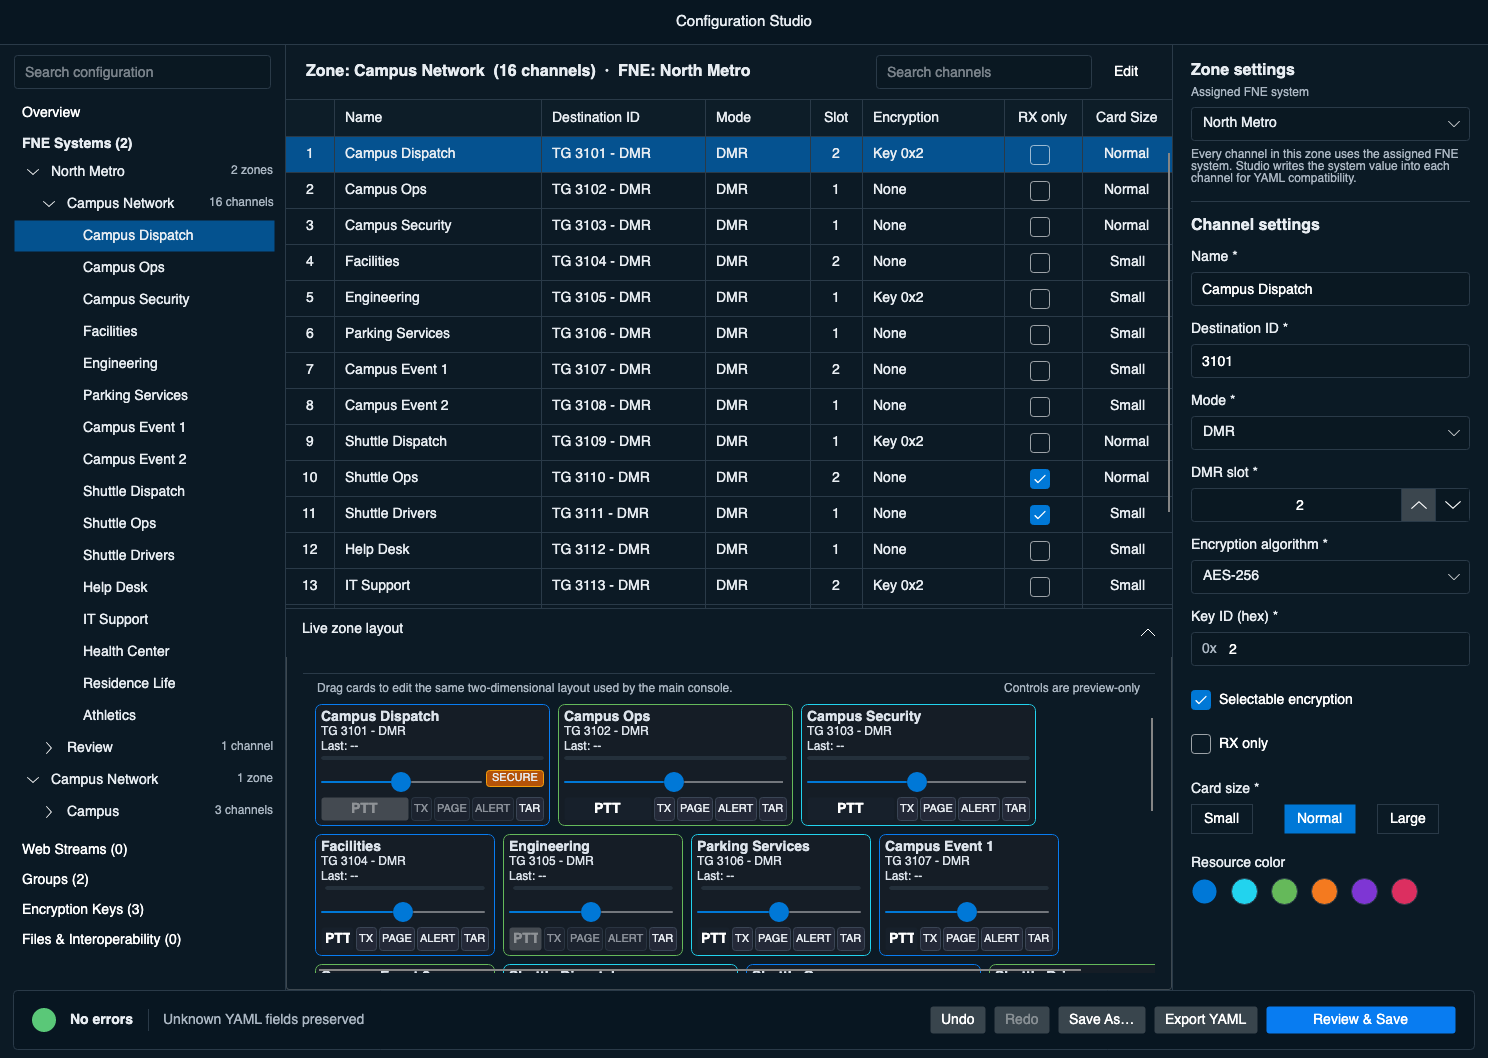
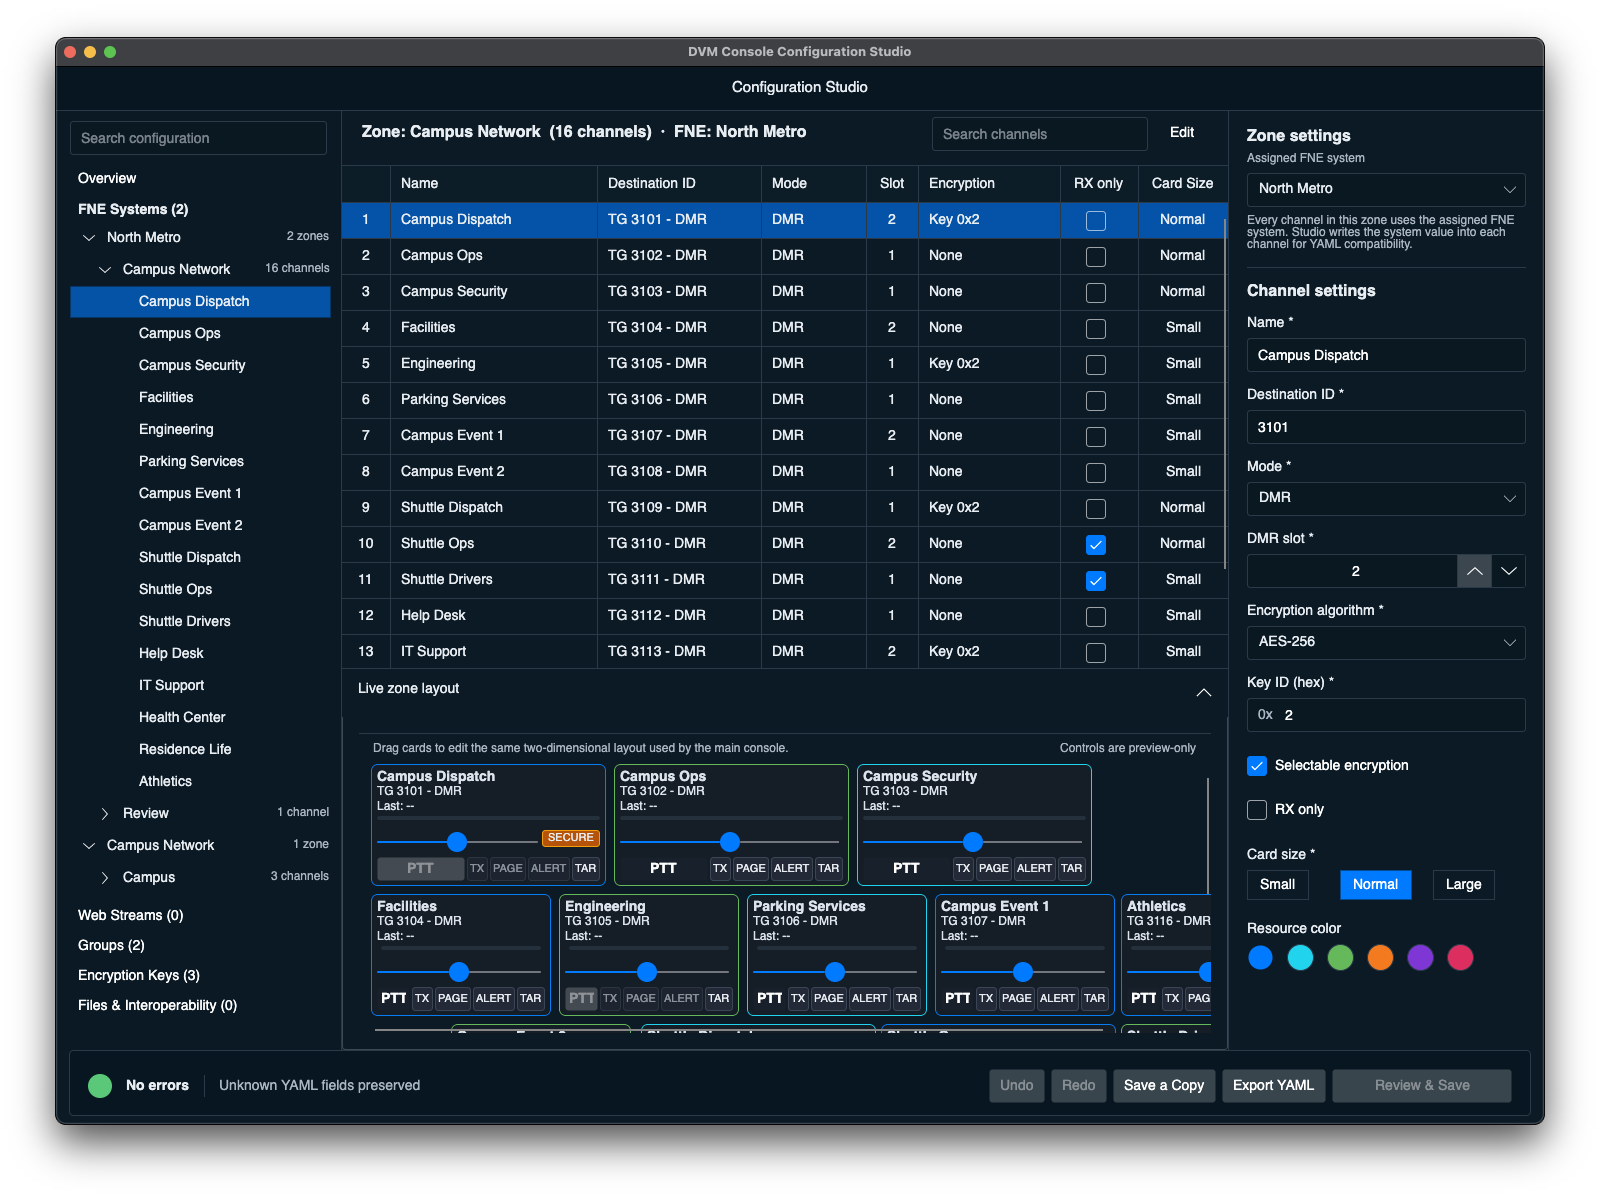
feat: expand bundled demo codeplug [skip ci]

diff --git a/src/DvmConsole.Desktop/MainWindowViewModel.Demo.cs b/src/DvmConsole.Desktop/MainWindowViewModel.Demo.cs
@@ -45,50 +45,50 @@ public sealed partial class MainWindowViewModel
 
         SystemViewModel? northMetro = FindDemoSystem("North Metro");
         SystemViewModel? campus = FindDemoSystem("Campus Network");
-        ChannelViewModel? northDispatch = FindDemoChannel("North Dispatch");
-        ChannelViewModel? transit = FindDemoChannel("Transit Operations");
-        ChannelViewModel? publicWorks = FindDemoChannel("Public Works");
+        ChannelViewModel? campusDispatch = FindDemoChannel("Campus Dispatch");
+        ChannelViewModel? campusOps = FindDemoChannel("Campus Ops");
+        ChannelViewModel? campusSecurity = FindDemoChannel("Campus Security");
         ChannelViewModel? campusServices = FindDemoChannel("Campus Services");
         ChannelViewModel? events = FindDemoChannel("Events");
         ChannelViewModel? facilities = FindDemoChannel("Facilities");
 
         if (northMetro is not null)
             SelectedSystem = northMetro;
-        if (transit is not null)
-            SelectChannel(transit);
+        if (campusOps is not null)
+            SelectChannel(campusOps);
 
-        northDispatch?.SetTransmitSelected(true);
-        transit?.SetTransmitSelected(true);
-        publicWorks?.SetPageSelected(true);
-        transit?.SetAlertSelected(true);
+        campusDispatch?.SetTransmitSelected(true);
+        campusOps?.SetTransmitSelected(true);
+        campusSecurity?.SetPageSelected(true);
+        campusOps?.SetAlertSelected(true);
         events?.SetPageSelected(true);
         facilities?.SetAlertSelected(true);
-        transit?.RestoreRecordingEnabled(true);
+        campusOps?.RestoreRecordingEnabled(true);
         campusServices?.RestoreRecordingEnabled(true);
-        publicWorks?.RestoreRecordingEnabled(true);
+        campusSecurity?.RestoreRecordingEnabled(true);
 
-        if (northDispatch is not null)
+        if (campusDispatch is not null)
         {
             const uint transmitStreamId = 0x4E454F01;
             ObservePttActivationSource(PttActivationSource.LocalChannelControl);
-            northDispatch.SetTransmitEnabled(true, transmitStreamId);
+            campusDispatch.SetTransmitEnabled(true, transmitStreamId);
             callHistory.AddConsoleTransmission(
                 DemoTimelineOrigin.AddMinutes(9),
-                northDispatch.Definition.SystemName,
-                northDispatch.Name,
+                campusDispatch.Definition.SystemName,
+                campusDispatch.Name,
                 990001,
-                northDispatch.Definition.DestinationId,
-                ProtocolFor(northDispatch),
+                campusDispatch.Definition.DestinationId,
+                ProtocolFor(campusDispatch),
                 transmitStreamId,
                 "NEO Demo Console",
-                channelId: new ChannelId(northDispatch.SessionId));
+                channelId: new ChannelId(campusDispatch.SessionId));
         }
 
-        if (northMetro is not null && transit is not null)
+        if (northMetro is not null && campusOps is not null)
         {
-            PresentDemoReceive(northMetro, transit, 42017, 0x4E454F11, 72);
+            PresentDemoReceive(northMetro, campusOps, 42017, 0x4E454F11, 72);
             AddActiveDemoCall(
-                transit,
+                campusOps,
                 42017,
                 0x4E454F11,
                 DemoTimelineOrigin.AddMinutes(8).AddSeconds(54));
@@ -104,7 +104,7 @@ public sealed partial class MainWindowViewModel
         }
 
         AddCompletedDemoCall(
-            publicWorks,
+            campusSecurity,
             33412,
             0x4E454F31,
             DemoTimelineOrigin.AddMinutes(7),
@@ -117,7 +117,7 @@ public sealed partial class MainWindowViewModel
             TimeSpan.FromSeconds(42));
 
         AddDemoRecording(
-            publicWorks,
+            campusSecurity,
             33412,
             "Field Unit 34",
             0x4E454F31,

diff --git a/src/DvmConsole.Desktop.RenderTests/ConfigurationStudioRenderTests.cs b/src/DvmConsole.Desktop.RenderTests/ConfigurationStudioRenderTests.cs
@@ -94,7 +94,7 @@ public sealed class ConfigurationStudioRenderTests
         string demoCodeplug = Path.Combine(AppContext.BaseDirectory, "Demo", "codeplug.yml");
         using DemoSessionState demoState = DemoSessionState.Create();
         var settingsStore = new UserSettingsStore(demoState.UserSettingsPath);
-        const string channelKey = "North Metro\u001FNorth Dispatch";
+        const string channelKey = "North Metro\u001FCampus Dispatch";
         settingsStore.Save(new UserSettings
         {
             LastCodeplugPath = demoCodeplug,
@@ -649,6 +649,11 @@ public sealed class ConfigurationStudioRenderTests
                 });
             });
         });
+        ZoneConfiguration mixedModeZone = Assert.Single(
+            viewModel.Zones,
+            zone => zone.Channels.Any(channel => channel.Mode == "p25") &&
+                    zone.Channels.Any(channel => channel.Mode == "dmr"));
+        viewModel.SelectedZone = mixedModeZone;
         Assert.NotEmpty(viewModel.VisibleChannelRows);
         ConfigurationChannelRow p25Row = Assert.Single(
             viewModel.VisibleChannelRows,
@@ -748,9 +753,9 @@ public sealed class ConfigurationStudioRenderTests
         Assert.Equal(0x05, viewModel.SelectedKey.AlgId);
         Assert.Equal("0x05", viewModel.SelectedKeyAlgorithmIdText);
 
-        viewModel.ChannelSearchText = "North Dispatch";
+        viewModel.ChannelSearchText = "Campus Services";
         ConfigurationChannelRow row = Assert.Single(viewModel.VisibleChannelRows);
-        Assert.Equal("North Dispatch", row.Name);
+        Assert.Equal("Campus Services", row.Name);
         viewModel.ChannelSearchText = "no matching channel";
         Assert.Empty(viewModel.VisibleChannelRows);
         viewModel.ChannelSearchText = string.Empty;
@@ -806,7 +811,7 @@ public sealed class ConfigurationStudioRenderTests
         UserSettings settings = settingsStore.Load();
         settings.LastSelectedSystemName = "North Metro";
         settings.RxJitterBuffersBySystem["North Metro"] = new RxJitterBufferSetting();
-        settings.ChannelVolumes["North Metro\u001FNorth Dispatch"] = 0.5;
+        settings.ChannelVolumes["North Metro\u001FCampus Dispatch"] = 0.5;
         CodeplugGroupState state = CodeplugGroupStateStore.GetOrMigrate(settings, activeCodeplug);
         state.Memberships["Shared Operations"] =
         [
@@ -814,7 +819,7 @@ public sealed class ConfigurationStudioRenderTests
             {
                 SystemName = "North Metro",
                 DestinationId = 3101,
-                ChannelName = "North Dispatch"
+                ChannelName = "Campus Dispatch"
             }
         ];
         settingsStore.Save(settings);
@@ -841,7 +846,7 @@ public sealed class ConfigurationStudioRenderTests
         Assert.Equal("Regional Dispatch", migratedGroupState.Memberships["Regional Operations"][0].ChannelName);
         string review = savePlanner.BuildReviewText(plan);
         Assert.Contains("System state: North Metro → North Regional", review, StringComparison.Ordinal);
-        Assert.Contains("Channel state: North Metro/North Dispatch → North Regional/Regional Dispatch", review, StringComparison.Ordinal);
+        Assert.Contains("Channel state: North Metro/Campus Dispatch → North Regional/Regional Dispatch", review, StringComparison.Ordinal);
         Assert.Contains("Group state: Shared Operations → Regional Operations", review, StringComparison.Ordinal);
 
         string saveAsDirectory = Path.Combine(Path.GetTempPath(), "dvmconsole-studio-saveas-tests", Guid.NewGuid().ToString("N"));

diff --git a/src/DvmConsole.Desktop/App.axaml.cs b/src/DvmConsole.Desktop/App.axaml.cs
@@ -307,35 +307,12 @@ public sealed class App : Avalonia.Application
 
     private static void PrepareConfigurationStudioZoneCapture(ConfigurationStudioViewModel studio)
     {
-        ZoneConfiguration zone = studio.SelectedZone
-            ?? throw new InvalidOperationException("The Studio capture requires a zone.");
-        string[] names =
-        [
-            "Campus Dispatch", "Campus Ops", "Campus Security", "Facilities",
-            "Engineering", "Parking Services", "Campus Event 1", "Campus Event 2",
-            "Shuttle Dispatch", "Shuttle Ops", "Shuttle Drivers", "Help Desk",
-            "IT Support", "Health Center", "Residence Life", "Athletics"
-        ];
-        zone.Name = "Campus Network";
-        zone.Channels.Clear();
-        for (int index = 0; index < names.Length; index++)
-        {
-            zone.Channels.Add(new ChannelConfiguration
-            {
-                Name = names[index],
-                System = "North Metro",
-                Tgid = (3101 + index).ToString(System.Globalization.CultureInfo.InvariantCulture),
-                Mode = "dmr",
-                Slot = index % 3 == 0 ? 2 : 1,
-                Algo = index % 4 == 0 ? "aes" : "none",
-                KeyId = index % 4 == 0 ? "0x2" : null,
-                SelectableEncryption = index == 0,
-                RxOnly = index is 9 or 10,
-                CardSize = index is 0 or 1 or 2 or 8 or 9 ? "normal" : "small",
-                ResourceColor = index % 3 == 0 ? "#087CF1" : index % 3 == 1 ? "#65B95A" : "#22D3EE"
-            });
-        }
-        studio.CommitFieldEdit();
+        ZoneConfiguration zone = studio.Zones.SingleOrDefault(
+            candidate => candidate.Name.Equals("Campus Network", StringComparison.Ordinal))
+            ?? throw new InvalidOperationException("The Studio capture requires the expanded Campus Network demo zone.");
+        if (zone.Channels.Count != 16)
+            throw new InvalidOperationException("The expanded Campus Network demo zone must contain 16 channels.");
+
         studio.SelectedZone = zone;
         studio.SelectedChannel = zone.Channels[0];
         studio.IsZonePreviewExpanded = true;

diff --git a/src/DvmConsole.Desktop.Tests/DemoSessionTests.cs b/src/DvmConsole.Desktop.Tests/DemoSessionTests.cs
@@ -1,3 +1,4 @@
+using DvmConsole.Core.Configuration;
 using DvmConsole.Core.Settings;
 using Xunit;
 
@@ -50,6 +51,15 @@ public sealed class DemoSessionTests
             $"dvmconsole-demo-host-{Guid.NewGuid():N}");
         Assert.True(File.Exists(demoPath), $"Missing bundled demo codeplug at {demoPath}");
 
+        ConsoleConfiguration configuration = ConfigurationLoader.Load(demoPath);
+        ZoneConfiguration expandedZone = Assert.Single(
+            configuration.Zones,
+            zone => zone.Name == "Campus Network");
+        Assert.Equal(16, expandedZone.Channels.Count);
+        Assert.Equal("Campus Dispatch", expandedZone.Channels[0].Name);
+        Assert.Contains(expandedZone.Channels, channel => channel.SelectableEncryption);
+        Assert.Equal(2, expandedZone.Channels.Count(channel => channel.RxOnly));
+
         try
         {
             using DemoSessionState state = DemoSessionState.Create(temporaryParent);
@@ -68,7 +78,7 @@ public sealed class DemoSessionTests
             Assert.True(viewModel.IsCodeplugLoaded);
             Assert.True(viewModel.IsNetworkDisabledDemo);
             Assert.Equal(2, viewModel.Systems.Count);
-            Assert.Equal(7, viewModel.Systems.SelectMany(system => system.Channels).Count());
+            Assert.Equal(20, viewModel.Systems.SelectMany(system => system.Channels).Count());
             Assert.Contains(
                 viewModel.AudioInputDevices,
                 device => device.Name == "NEO Demo Microphone (synthetic)");

diff --git a/README.md b/README.md
@@ -33,6 +33,8 @@ For amateur and educational use. **Not for public- or life-safety operation.**
 <sub>Public example configuration shown; no operational system data is included.</sub>
 
 <picture>
+  <source media="(prefers-color-scheme: dark)" srcset="docs/user-guide/Assets/configuration-studio-zone.png">
+  <source media="(prefers-color-scheme: light)" srcset="docs/user-guide/Assets/configuration-studio-zone-light.png">
   <img alt="Configuration Studio zone editor showing the system, zone, and channel hierarchy, channel table, settings inspector, and live zone layout" src="docs/user-guide/Assets/configuration-studio-zone.png" width="100%">
 </picture>
 
